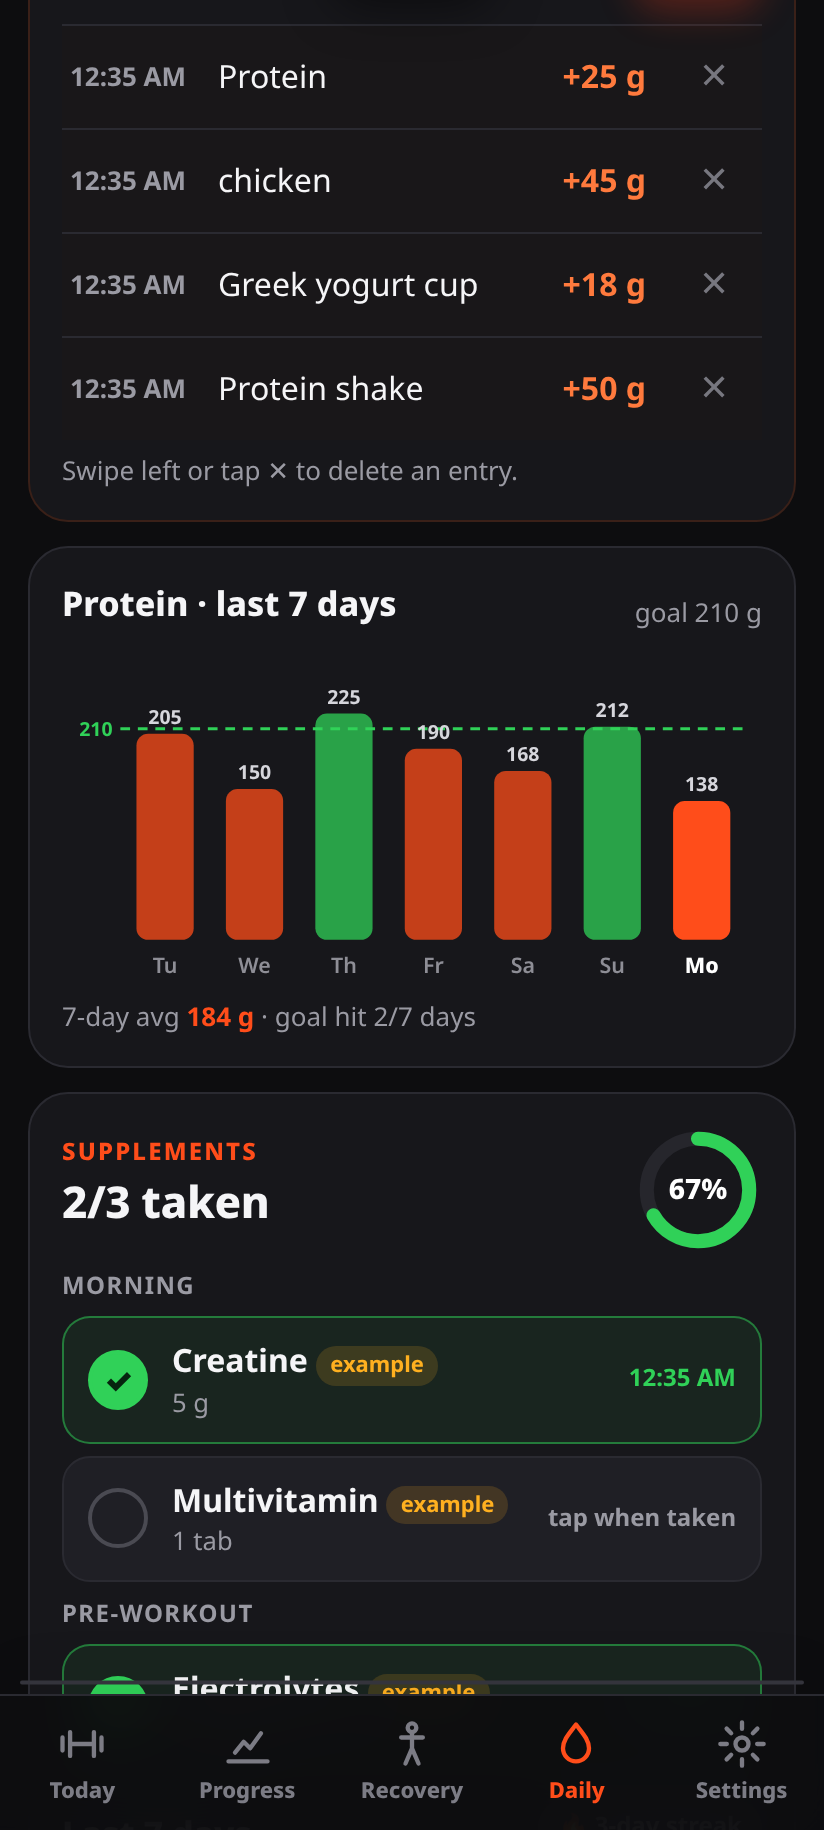
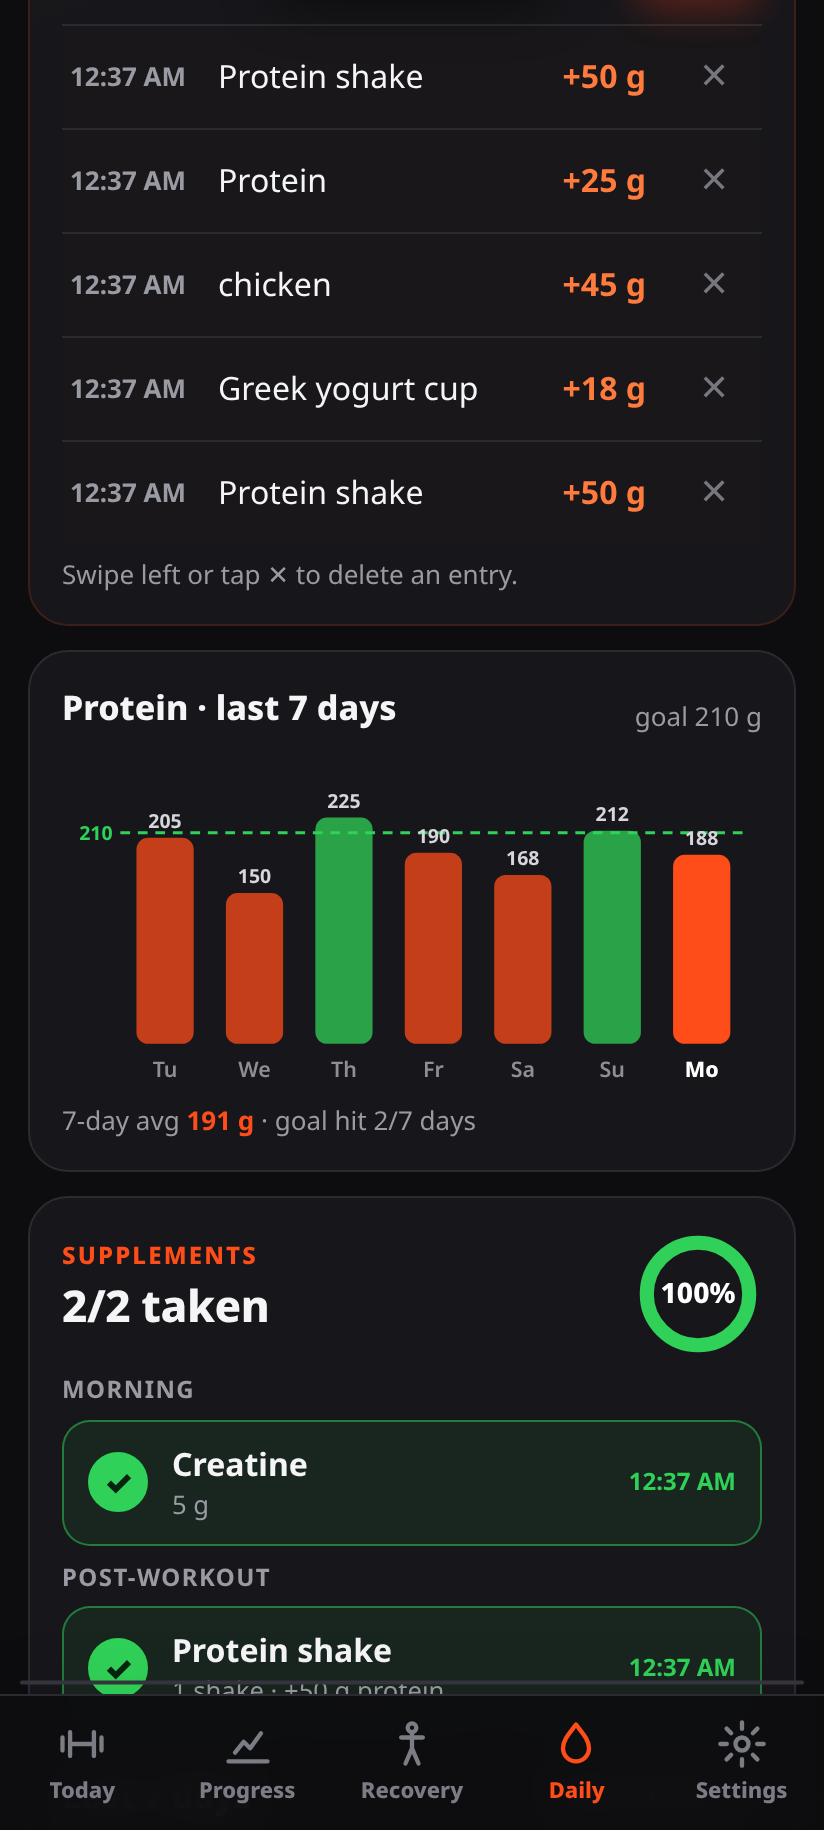
Supplements: Boss's real list (Creatine, Protein shake→protein tracker), tirzepatide line on due days only

diff --git a/src/app.js b/src/app.js
@@ -2,7 +2,7 @@ import { state, save, ymd, parseYmd, mondayOf, addDays, day, replaceState, reset
 import { EXERCISES, MUSCLES, exercise, demoUrl, alternatives } from './exercises.js';
 import { PROGRESSION, BODYWEIGHT, SUPP_TIMINGS } from './program.js';
 import { WD, WD_LONG, workoutById, doneSessions, programWeek, scheduleFor, nextInRotation, suggest, fmtW,
-  historyFor, e1rm, recovery, recColor, streak, trainingDays, round, suppAdherence, suppStreak, injectionStatus } from './logic.js';
+  historyFor, e1rm, recovery, recColor, streak, trainingDays, round, suppAdherence, suppStreak, injectionStatus, injLine } from './logic.js';
 import { bodySvg } from './body.js';
 import { lineChart, barChart } from './charts.js';
 
@@ -301,8 +301,8 @@ function protein7(endKey) {
   return `${barChart(bars, { goal: state.settings.targets.protein })}<div class="muted sm">7-day avg <b class="accent">${avg} g</b> · goal hit ${hit}/7 days</div>`;
 }
 function suppCard(k, d) {
-  const list = state.supplements;
-  if (!list.length) return `<section class="card"><h3>Supplements</h3><p class="muted">No supplements set up.</p><button class="btn ghost" data-act="go" data-tab="settings">Add in Settings</button></section>`;
+  const list = state.supplements; const inj = injLine(k);
+  if (!list.length && !inj) return `<section class="card"><h3>Supplements</h3><p class="muted">No supplements set up.</p><button class="btn ghost" data-act="go" data-tab="settings">Add in Settings</button></section>`;
   const a = suppAdherence(k);
   const groups = SUPP_TIMINGS.map(([tk, tl]) => [tl, list.filter(x => x.timing === tk)]).filter(([, xs]) => xs.length);
   const end = parseYmd(k); let hist = '';
@@ -310,10 +310,13 @@ function suppCard(k, d) {
     hist += `<div class="sh ${p >= 1 ? 'full' : p > 0 ? 'part' : ''} ${i === 0 ? 'cur' : ''}"><span>${WD[dt.getDay()][0]}</span><b>${Math.round(p * 100)}%</b></div>`; }
   const st = suppStreak();
   return `<section class="card"><div class="row between"><div><div class="eyebrow accent">Supplements</div><h2>${a.n}/${a.total} taken</h2></div>${ring(a.n, a.total, 'sm', '#30d158')}</div>
+    ${inj ? `<div class="sgroup"><div class="lbl">Weekly injection</div><button class="supp inj-line ${inj.done ? 'on' : ''}" data-act="suppInj">
+      <span class="tick">${inj.done ? '✓' : ''}</span><span class="grow"><b>💉 Tirzepatide</b><small>${inj.done ? (inj.logged ? 'logged' : 'done this week') : `due ${WD_LONG[state.settings.injectionDay]}–${WD_LONG[(state.settings.injectionDay + (state.settings.injectionWindowDays || 2) - 1) % 7]}`}${state.settings.injectionDose ? ' · ' + esc(state.settings.injectionDose) : ''}</small></span>
+      <small class="stime">${inj.logged ? fmtTime(inj.logged.ts) : inj.done ? 'done' : 'tap when taken'}</small></button></div>` : ''}
     ${groups.map(([tl, xs]) => `<div class="sgroup"><div class="lbl">${tl}</div>${xs.map(x => { const ts = d.supps[x.id]; return `<button class="supp ${ts ? 'on' : ''}" data-act="supp" data-id="${x.id}">
-      <span class="tick">${ts ? '✓' : ''}</span><span class="grow"><b>${esc(x.name)}</b>${x.example ? ' <span class="chip sm warn">example</span>' : ''}<small>${esc(x.dose)}</small></span><small class="stime">${ts ? fmtTime(ts) : 'tap when taken'}</small></button>`; }).join('')}</div>`).join('')}
+      <span class="tick">${ts ? '✓' : ''}</span><span class="grow"><b>${esc(x.name)}</b><small>${esc(x.dose)}${x.proteinG ? ` · +${x.proteinG} g protein` : ''}</small></span><small class="stime">${ts ? fmtTime(ts) : 'tap when taken'}</small></button>`; }).join('')}</div>`).join('')}
     <div class="row between"><h3 class="mt">Last 7 days</h3><span class="chip">🔥 ${st}-day streak</span></div><div class="shist">${hist}</div>
-    ${list.some(x => x.example) ? '<p class="muted sm">Items marked <b>example</b> are starters — edit or remove them in Settings → Supplements.</p>' : ''}</section>`;
+    </section>`;
 }
 function injectionCard(onToday) {
   const st = injectionStatus(); const s = state.settings;
@@ -376,12 +379,13 @@ function viewSettings() {
         <label class="mini-l">Reps<input class="inp num" type="number" data-change="plo" data-w="${wi}" data-x="${xi}" value="${x.reps[0]}"></label>–
         <label class="mini-l"><input class="inp num" type="number" data-change="phi" data-w="${wi}" data-x="${xi}" value="${x.reps[1]}"></label></div></div>`).join('')}</div>`).join('')}
     <button class="btn ghost" data-act="resetProgram">Reset program to Coach Dre default</button></section>`;
-  h += `<section class="card"><h3>Supplements</h3><p class="muted sm">Daily checklist on the Daily tab. Reorder with ↑ ↓.</p>
+  h += `<section class="card"><h3>Supplements</h3><p class="muted sm">Daily checklist on the Daily tab. Reorder with ↑ ↓. Tirzepatide is added automatically on injection due days (see below).</p>
     <div id="suppEditor">${state.supplements.map((x, i) => `<div class="pslot sedit" data-id="${x.id}"><div class="row gap">
       <input class="inp grow" data-change="suppName" data-id="${x.id}" value="${esc(x.name)}" placeholder="Name" aria-label="Supplement name">
-      ${x.example ? '<span class="chip sm warn">example</span>' : ''}</div>
+</div>
       <div class="row gap"><input class="inp sdose" data-change="suppDose" data-id="${x.id}" value="${esc(x.dose)}" placeholder="Dose" aria-label="Dose">
       <select class="inp stiming" data-change="suppTiming" data-id="${x.id}" aria-label="Timing">${SUPP_TIMINGS.map(([v, l]) => `<option value="${v}" ${v === x.timing ? 'selected' : ''}>${l}</option>`).join('')}</select></div>
+      <div class="row gap"><label class="mini-l grow">Offer to add protein when checked</label><input class="inp num" type="number" inputmode="numeric" data-change="suppProt" data-id="${x.id}" value="${x.proteinG || ''}" placeholder="0" aria-label="Protein grams"><span class="unit">g</span></div>
       <div class="row gap sbtns"><button class="icon" data-act="suppMove" data-id="${x.id}" data-n="-1" ${i === 0 ? 'disabled' : ''} aria-label="Move up">↑</button><button class="icon" data-act="suppMove" data-id="${x.id}" data-n="1" ${i === state.supplements.length - 1 ? 'disabled' : ''} aria-label="Move down">↓</button>
       <span class="grow"></span><button class="btn ghost sm" data-act="suppDel" data-id="${x.id}">Remove</button></div></div>`).join('') || '<p class="muted">No supplements.</p>'}</div>
     <button class="btn primary wide" data-act="suppAdd">+ Add supplement</button></section>`;
@@ -565,7 +569,32 @@ const actions = {
   addFood: el => { const f = state.quickFoods.find(x => x.id === el.dataset.id); if (f) addProtein(f.g, f.name); },
   addCustomP: () => { const g = parseFloat($('#pG').value); if (!(g > 0)) return toast('Enter grams'); addProtein(g, $('#pLabel').value.trim()); },
   delP: el => delProtein(el.dataset.id),
-  supp: el => { const d = day(ui.dailyDate); const id = el.dataset.id; if (d.supps[id]) delete d.supps[id]; else d.supps[id] = nowFor(ui.dailyDate); save(); render(); },
+  supp: el => {
+    const d = day(ui.dailyDate); const id = el.dataset.id; const x = state.supplements.find(y => y.id === id);
+    d.suppProtein = d.suppProtein || {};
+    if (d.supps[id]) { // uncheck: also remove the protein entry it added
+      delete d.supps[id];
+      if (d.suppProtein[id]) { d.proteinLog = d.proteinLog.filter(e => e.id !== d.suppProtein[id]); delete d.suppProtein[id]; recalcProtein(d); }
+      save(); render(); return;
+    }
+    d.supps[id] = nowFor(ui.dailyDate); save(); render();
+    if (x && x.proteinG) sheet(`<div class="eyebrow accent">${esc(x.name)} ✓</div><h2>Add to protein tracker?</h2>
+      <div class="row custom"><input id="spG" class="inp big" type="number" inputmode="numeric" value="${x.proteinG}" aria-label="Grams"><span class="unit">g protein</span></div>
+      <button class="btn primary xl" data-act="suppAddP" data-id="${id}">Add protein</button><button class="btn ghost wide" data-act="closeSheet">Just check it off</button>`);
+  },
+  suppAddP: el => {
+    const id = el.dataset.id; const x = state.supplements.find(y => y.id === id); const g = parseFloat($('#spG').value);
+    closeSheet(); if (!(g > 0)) return;
+    const d = day(ui.dailyDate); const e = { id: uid(), ts: d.supps[id] || nowFor(ui.dailyDate), g, label: x ? x.name : 'Shake' };
+    d.proteinLog.push(e); d.suppProtein = d.suppProtein || {}; d.suppProtein[id] = e.id; recalcProtein(d); save(); render(); toast(`+${g} g protein`);
+  },
+  suppInj: () => {
+    const k = ui.dailyDate; const inj = injLine(k);
+    if (inj && inj.logged) { if (confirm('Remove the tirzepatide injection logged for this day?')) { state.injections = state.injections.filter(i => i !== inj.logged); save(); render(); } return; }
+    if (inj && inj.done) return toast('Already logged this week');
+    const ts = nowFor(k); state.injections.push({ id: uid(), ts, date: k, dose: state.settings.injectionDose || '', site: '' });
+    save(); render(); toast('Injection logged');
+  },
   suppAdd: () => { state.supplements.push({ id: uid(), name: 'New supplement', dose: '', timing: 'morning' }); save(); render(); const els = document.querySelectorAll('[data-change=suppName]'); const el = els[els.length - 1]; if (el) { el.focus(); el.select(); } },
   suppDel: el => { const x = state.supplements.find(y => y.id === el.dataset.id); if (x && confirm(`Remove ${x.name}?`)) { state.supplements = state.supplements.filter(y => y !== x); save(); render(); } },
   suppMove: el => { const L = state.supplements; const i = L.findIndex(y => y.id === el.dataset.id); const j = i + +el.dataset.n; if (i < 0 || j < 0 || j >= L.length) return; [L[i], L[j]] = [L[j], L[i]]; save(); render(); },
@@ -620,6 +649,7 @@ const changes = {
   badDay: el => { state.active.badDay = el.checked; save(); render(); },
   progEx: el => { ui.progEx = el.value; render(); },
   suppName: el => { const x = state.supplements.find(y => y.id === el.dataset.id); if (x) { x.name = el.value; delete x.example; save(); } },
+  suppProt: el => { const x = state.supplements.find(y => y.id === el.dataset.id); if (x) { const g = Math.max(0, +el.value || 0); if (g) x.proteinG = g; else delete x.proteinG; save(); } },
   suppDose: el => { const x = state.supplements.find(y => y.id === el.dataset.id); if (x) { x.dose = el.value; delete x.example; save(); } },
   suppTiming: el => { const x = state.supplements.find(y => y.id === el.dataset.id); if (x) { x.timing = el.value; delete x.example; save(); render(); } },
   qfName: el => { const f = state.quickFoods.find(y => y.id === el.dataset.id); if (f) { f.name = el.value; save(); } },
@@ -724,4 +754,4 @@ if (state.active) wake(true);
 if ('serviceWorker' in navigator && location.protocol !== 'file:') navigator.serviceWorker.register('./sw.js').catch(() => { });
 
 // test hook (used by scripts/e2e.mjs)
-window.__rep = { get state() { return state; }, render, injectionStatus, suppAdherence };
+window.__rep = { get state() { return state; }, render, injectionStatus, suppAdherence, injLine };

diff --git a/src/logic.js b/src/logic.js
@@ -137,11 +137,26 @@ export function streak() {
 }
 
 // ---- Supplements
+export function injDueDay(dt) {
+  const wd = state.settings.injectionDay, win = Math.max(1, state.settings.injectionWindowDays || 2);
+  return (dt.getDay() - wd + 7) % 7 < win;
+}
+export const injectionOn = dateKey => state.injections.find(i => i.date === dateKey) || null;
+/** Tirzepatide checklist line for a date: shown on due-window days (or the day it was logged). */
+export function injLine(dateKey) {
+  const dt = parseYmd(dateKey); const due = injDueDay(dt); const logged = injectionOn(dateKey);
+  if (!due && !logged) return null;
+  const done = !!logged || (due && injectionStatus(dt).status === 'done');
+  return { due, done, logged, counts: due };
+}
 export function suppAdherence(dateKey) {
-  const list = state.supplements; if (!list.length) return null;
+  const list = state.supplements;
   const taken = (state.daily[dateKey] && state.daily[dateKey].supps) || {};
-  const n = list.filter(s => taken[s.id]).length;
-  return { n, total: list.length, pct: n / list.length };
+  let n = list.filter(s => taken[s.id]).length, total = list.length;
+  const inj = injLine(dateKey);
+  if (inj && inj.counts) { total++; if (inj.done) n++; }
+  if (!total) return null;
+  return { n, total, pct: n / total };
 }
 export function suppStreak() {
   // consecutive 100% days ending today (or yesterday if today isn't complete yet)

diff --git a/src/program.js b/src/program.js
@@ -95,12 +95,14 @@ export const BODYWEIGHT = {
   weighInDay: 1, // Monday-morning weigh-in prompt
 };
 
-// Supplements — STARTER EXAMPLES ONLY (edit/remove in Settings → Supplements).
+// Boss's daily supplements (edit in Settings → Supplements).
 // timing: 'morning' | 'pre' | 'post' | 'evening'
+// proteinG: checking it off offers to add that many grams to the protein tracker.
+// Tirzepatide is NOT listed here: it's the weekly injection (settings.injectionDay) and is
+// added to the checklist automatically on due days only. Electrolytes live in the pre-workout check.
 export const DEFAULT_SUPPLEMENTS = [
-  { id: 'ex-creatine', name: 'Creatine', dose: '5 g', timing: 'morning', example: true },
-  { id: 'ex-multi', name: 'Multivitamin', dose: '1 tab', timing: 'morning', example: true },
-  { id: 'ex-electrolytes', name: 'Electrolytes', dose: '1 packet', timing: 'pre', example: true },
+  { id: 'creatine', name: 'Creatine', dose: '5 g', timing: 'morning' },
+  { id: 'protein-shake', name: 'Protein shake', dose: '1 shake', timing: 'post', proteinG: 50 },
 ];
 export const SUPP_TIMINGS = [['morning', 'Morning'], ['pre', 'Pre-workout'], ['post', 'Post-workout'], ['evening', 'Evening']];
 

diff --git a/src/store.js b/src/store.js
@@ -56,6 +56,8 @@ function migrate(s) {
   for (const k of ['sessions', 'bodyweight', 'dizzyEvents', 'supplements', 'quickFoods', 'injections']) if (!Array.isArray(out[k])) out[k] = d[k];
   if (!out.program || !Array.isArray(out.program.workouts)) out.program = d.program;
   if (!out.daily || typeof out.daily !== 'object') out.daily = {};
+  // v1.1 shipped placeholder "example" supplements — swap them for the real defaults
+  if (out.supplements.length && out.supplements.every(x => x.example)) out.supplements = d.supplements;
   return out;
 }
 

diff --git a/sw.js b/sw.js
@@ -1,5 +1,5 @@
 // Offline-first service worker. Bump VERSION when you change files.
-const VERSION = 'rep-v1.1.0';
+const VERSION = 'rep-v1.2.0';
 const ASSETS = [
   './', './index.html', './styles.css', './manifest.json',
   './src/app.js', './src/store.js', './src/logic.js', './src/program.js', './src/exercises.js', './src/body.js', './src/charts.js',

diff --git a/README.md b/README.md
@@ -26,7 +26,7 @@ In-app edits (Settings → Schedule / Program / Targets) are stored on the devic
 - **Progress**: bodyweight chart with goal line (seeded 255 lb on 2026-10-23, goal 200), est. 1RM (Epley) / top-set chart per exercise, calendar (lifts, classes, dizzy days), session history.
 - **Daily**: Coach Dre targets (1,800 kcal / 210 g P / ~55 g F / ~125 g C), protein quick-add (+10/+25/+40), optional kcal, water, steps (7,000 default; 6–8k on steps days), sleep, dizziness yes/no + note. Any past day can be edited.
 - **Protein tracker** (Daily hero card): big ring toward 210 g, +10/+25/+40, saved quick foods (editable presets), custom grams + label, today's timed log (swipe left or tap ✕ to delete), 7-day bar chart vs goal (Daily + Progress).
-- **Supplements**: daily checklist grouped by timing (Morning / Pre-workout / Post-workout / Evening), tap to mark taken (time stamped), adherence %, 7-day history + 100%-day streak. Starter items (Creatine 5 g, Multivitamin, Electrolytes) are marked *example*; edit/add/reorder/remove in Settings.
+- **Supplements**: daily checklist grouped by timing, tap to mark taken (time stamped), adherence %, 7-day history + 100%-day streak. Defaults: Creatine 5 g (Morning) and Protein shake (Post-workout — checking it off offers to add 50 g, editable, to the protein tracker; unchecking removes that entry). Tirzepatide appears as a checklist line only on injection due days (Sat–Sun by default), linked to the same injection log, and only counts toward adherence on those days. Electrolytes live in the pre-workout check. Edit/add/reorder/remove in Settings.
 - **Tirzepatide injection reminder**: default Saturday; due Sat–Sun, overdue from Monday until logged (window and day editable). Log now or back-date to the injection day; optional dose label and site with rotation hint.
 - **Settings**: schedule per weekday (lift A/B/C/D, steps, class/other training, rest), streak target, cycle start / deload, rest timers, sound/vibration, targets, program editor, Export / Import / Erase.
 - **Offline**: service worker caches the app shell.
